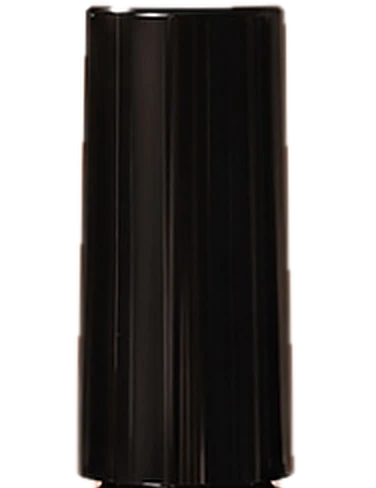
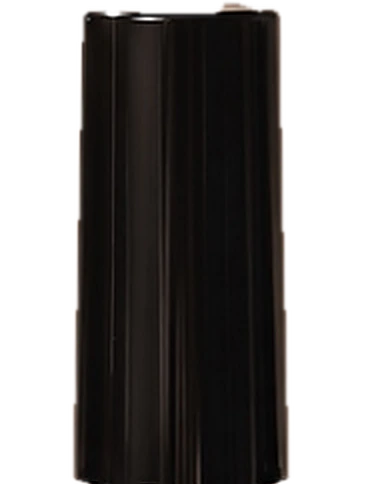
Remet le vrai flacon, mieux détouré, et répare son ouverture
Claude-Session: https://claude.ai/code/session_01B5jCSGcLNdFUGhAi1rtuKj

diff --git a/site-atelier/index.html b/site-atelier/index.html
@@ -18,6 +18,7 @@
   color-scheme:light;
 }
 *,*::before,*::after{box-sizing:border-box}
+[hidden]{display:none!important}
 html,body{background:var(--paper);color:var(--ink)}
 html.lenis{height:auto}
 .lenis.lenis-smooth{scroll-behavior:auto!important}
@@ -87,12 +88,11 @@ button{font-family:inherit}
 .hero .cta{z-index:3}
 .hero-title{position:absolute;left:0;right:0;top:50%;transform:translateY(-52%);font-size:clamp(96px,14vw,232px);color:var(--ink);z-index:1}
 .bottle{position:absolute;left:44%;top:50%;width:clamp(150px,16vw,260px);transform:translate(-50%,-44%);z-index:2}
-.bottle svg{display:block;width:100%;height:auto;overflow:visible}
 .bottle .cap{position:relative;z-index:1}
-.bottle .body{position:relative;z-index:2;margin-top:-2%}
+.bottle .body{position:relative;z-index:2;margin-top:-1px}
 .bottle .shadow{position:absolute;left:8%;right:8%;bottom:-5%;height:9%;border-radius:50%;background:radial-gradient(closest-side,rgba(40,12,22,.38),rgba(40,12,22,0));filter:blur(6px);z-index:0}
-.stem{position:absolute;left:50%;top:92%;width:5%;height:46vh;margin-left:-2.5%;transform-origin:50% 0;transform:scaleY(0);border-radius:2px 2px 40% 40%/2px 2px 10% 10%;background:linear-gradient(90deg,#0b0507,#4a3a40 45%,#0b0507);z-index:0}
-.stem::after{content:"";position:absolute;left:-70%;right:-70%;bottom:-1%;height:8%;border-radius:45% 45% 50% 50%/30% 30% 70% 70%;background:linear-gradient(90deg,#3a0612,#a22947 45%,#4a0818)}
+.stem{position:absolute;left:50%;top:94%;width:6%;height:46vh;margin-left:-3%;transform-origin:50% 0;transform:scaleY(0);border-radius:2px 2px 40% 40%/2px 2px 10% 10%;background:linear-gradient(90deg,#0b0507,#4a3a40 45%,#0b0507);z-index:0}
+.stem::after{content:"";position:absolute;left:-60%;right:-60%;bottom:-1%;height:8%;border-radius:45% 45% 50% 50%/30% 30% 70% 70%;background:linear-gradient(90deg,#3a0612,#a22947 45%,#4a0818)}
 .hero .meta{position:absolute;right:0;bottom:118px;width:min(280px,62vw);display:grid;gap:8px;color:var(--ink-soft);font-size:14.5px;line-height:1.5}
 .hero .meta b{color:var(--ink)}
 .hero .cta{position:absolute;right:0;bottom:44px}
@@ -370,41 +370,8 @@ button{font-family:inherit}
       <span class="l"><span class="w">maison.</span></span>
     </h1>
     <div class="bottle" aria-hidden="true">
-      <div class="cap">
-        <svg viewBox="0 0 200 262">
-          <defs>
-            <linearGradient id="gk" x1="0" x2="1"><stop offset="0" stop-color="#030203"/><stop offset=".14" stop-color="#2b2427"/><stop offset=".3" stop-color="#0d0a0b"/><stop offset=".62" stop-color="#050404"/><stop offset=".86" stop-color="#231c1f"/><stop offset="1" stop-color="#030203"/></linearGradient>
-            <linearGradient id="gs" x1="0" x2="0" y1="0" y2="1"><stop offset="0" stop-color="#fff" stop-opacity=".32"/><stop offset="1" stop-color="#fff" stop-opacity=".04"/></linearGradient>
-          </defs>
-          <rect x="54" y="2" width="92" height="238" rx="8" fill="url(#gk)"/>
-          <rect x="54" y="2" width="92" height="7" rx="4" fill="#3a3236" opacity=".7"/>
-          <rect x="66" y="14" width="11" height="214" rx="5.5" fill="url(#gs)"/>
-          <rect x="131" y="18" width="4" height="206" rx="2" fill="#fff" opacity=".07"/>
-          <rect x="47" y="232" width="106" height="28" rx="6" fill="url(#gk)"/>
-          <rect x="47" y="232" width="106" height="3" rx="1.5" fill="#fff" opacity=".12"/>
-        </svg>
-        <span class="stem"></span>
-      </div>
-      <div class="body">
-        <svg viewBox="0 0 200 232">
-          <defs>
-            <linearGradient id="gb" x1="0" x2="1"><stop offset="0" stop-color="#030203"/><stop offset=".1" stop-color="#2a2326"/><stop offset=".24" stop-color="#0c090a"/><stop offset=".7" stop-color="#060505"/><stop offset=".9" stop-color="#211a1d"/><stop offset="1" stop-color="#030203"/></linearGradient>
-            <radialGradient id="gh" cx=".28" cy=".12" r=".5"><stop offset="0" stop-color="#fff" stop-opacity=".22"/><stop offset="1" stop-color="#fff" stop-opacity="0"/></radialGradient>
-          </defs>
-          <rect x="64" y="0" width="72" height="16" fill="#0b0809"/>
-          <rect x="8" y="10" width="184" height="216" rx="44" fill="url(#gb)"/>
-          <rect x="8" y="10" width="184" height="216" rx="44" fill="url(#gh)"/>
-          <rect x="21" y="44" width="12" height="150" rx="6" fill="#fff" opacity=".13"/>
-          <rect x="170" y="56" width="4" height="120" rx="2" fill="#fff" opacity=".06"/>
-          <text x="100" y="98" text-anchor="middle" font-family="Bodoni Moda, Georgia, serif" font-size="46" font-weight="500" fill="#F4EFEA">N</text>
-          <circle cx="119" cy="95" r="3.6" fill="#F4EFEA"/>
-          <text x="100" y="116" text-anchor="middle" font-family="Jost, sans-serif" font-size="6.6" letter-spacing="1.7" fill="#CFC6C9">NAIL ART &amp; MANUCURE</text>
-          <text x="100" y="142" text-anchor="middle" font-family="Jost, Arial, sans-serif" font-size="17" font-weight="600" letter-spacing=".4" fill="#FFFFFF">GEL POLISH</text>
-          <rect x="56" y="151" width="88" height="15" rx="7.5" fill="#ECE5DF"/>
-          <text x="100" y="161.6" text-anchor="middle" font-family="Jost, Arial, sans-serif" font-size="7.4" font-weight="600" letter-spacing=".5" fill="#2A2226">HEMA &amp; TPO FREE</text>
-          <text x="100" y="191" text-anchor="middle" font-family="Jost, Arial, sans-serif" font-size="10" fill="#E9E2DE">8ml</text>
-        </svg>
-      </div>
+      <div class="cap"><img src="img/bouchon.webp" alt="" width="380" height="484"><span class="stem"></span></div>
+      <div class="body"><img src="img/flacon.webp" alt="" width="380" height="472"></div>
       <span class="shadow"></span>
     </div>
     <div class="meta glass" style="right:max(20px,4vw)">
@@ -642,7 +609,6 @@ button{font-family:inherit}
 
 <script src="https://cdnjs.cloudflare.com/ajax/libs/gsap/3.12.5/gsap.min.js"></script>
 <script src="https://cdnjs.cloudflare.com/ajax/libs/gsap/3.12.5/ScrollTrigger.min.js"></script>
-<script src="https://cdn.jsdelivr.net/npm/lenis@1.1.13/dist/lenis.min.js"></script>
 <script>
 /* Réglages : collez ici vos liens de paiement Stripe (Payment Links) et vos prix en euros. */
 const CONFIG = {
@@ -861,12 +827,6 @@ document.addEventListener("click", e => {
   if (!window.gsap || !window.ScrollTrigger || reduce) return;
   gsap.registerPlugin(ScrollTrigger);
   document.documentElement.classList.add("is-anim");
-  if (window.Lenis) {
-    lenis = new Lenis({ lerp: .085, smoothWheel: true });
-    lenis.on("scroll", ScrollTrigger.update);
-    gsap.ticker.add(t => lenis.raf(t * 1000));
-    gsap.ticker.lagSmoothing(0);
-  }
   const prepRibbon = svg => $$(".rp", svg).map(p => { const L = p.getTotalLength(); p.style.strokeDasharray = L; p.style.strokeDashoffset = L; return p; });
 
   gsap.from(".hero-title .w", { yPercent: 115, duration: 1.3, ease: "expo.out", stagger: .09, delay: .1 });
@@ -874,7 +834,7 @@ document.addEventListener("click", e => {
   gsap.from(".hero .meta, .hero .cta, .hero .eyebrow, .hero .scroll", { autoAlpha: 0, y: 14, duration: 1, ease: "power3.out", delay: .9, stagger: .07 });
 
   gsap.timeline({ scrollTrigger: { trigger: ".hero", start: "top top", end: "+=140%", scrub: 1, pin: true } })
-    .to(".bottle .cap", { y: () => -innerHeight * .3, rotate: -4, ease: "none" }, 0)
+    .to(".bottle .cap", { y: () => -innerHeight * .3, ease: "none" }, 0)
     .to(".bottle .stem", { scaleY: 1, ease: "none" }, 0)
     .to(".bottle .body", { y: () => innerHeight * .15, ease: "none" }, 0)
     .to(".bottle .shadow", { y: () => innerHeight * .15, ease: "none" }, 0)
